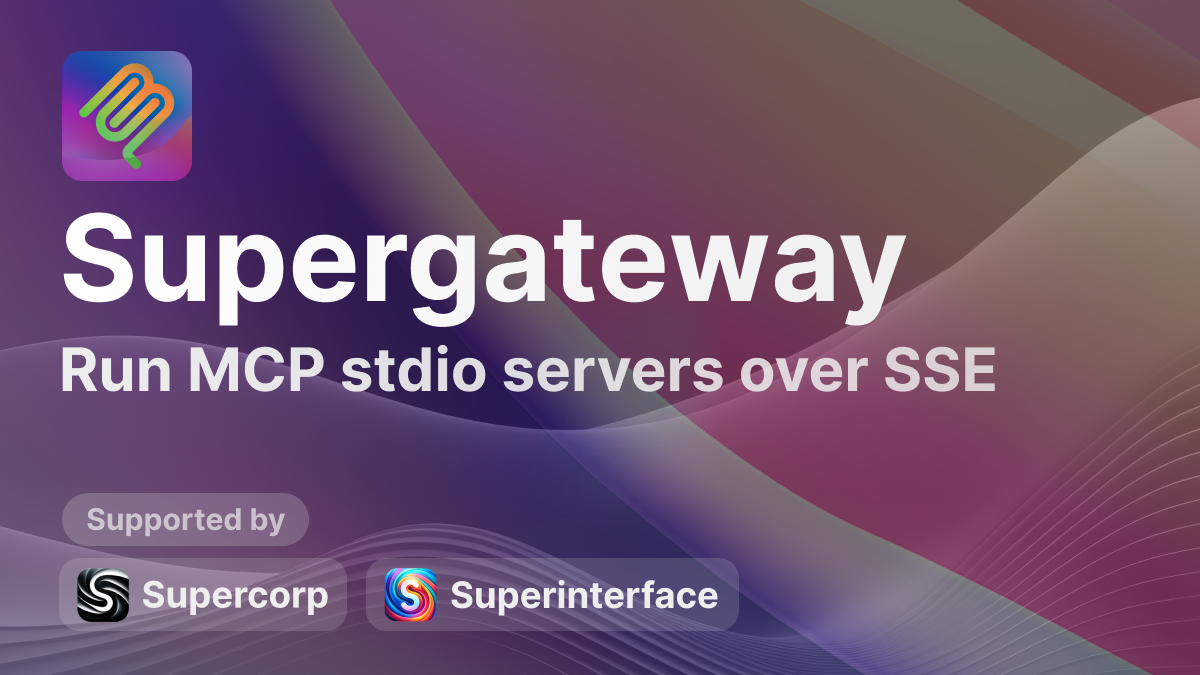
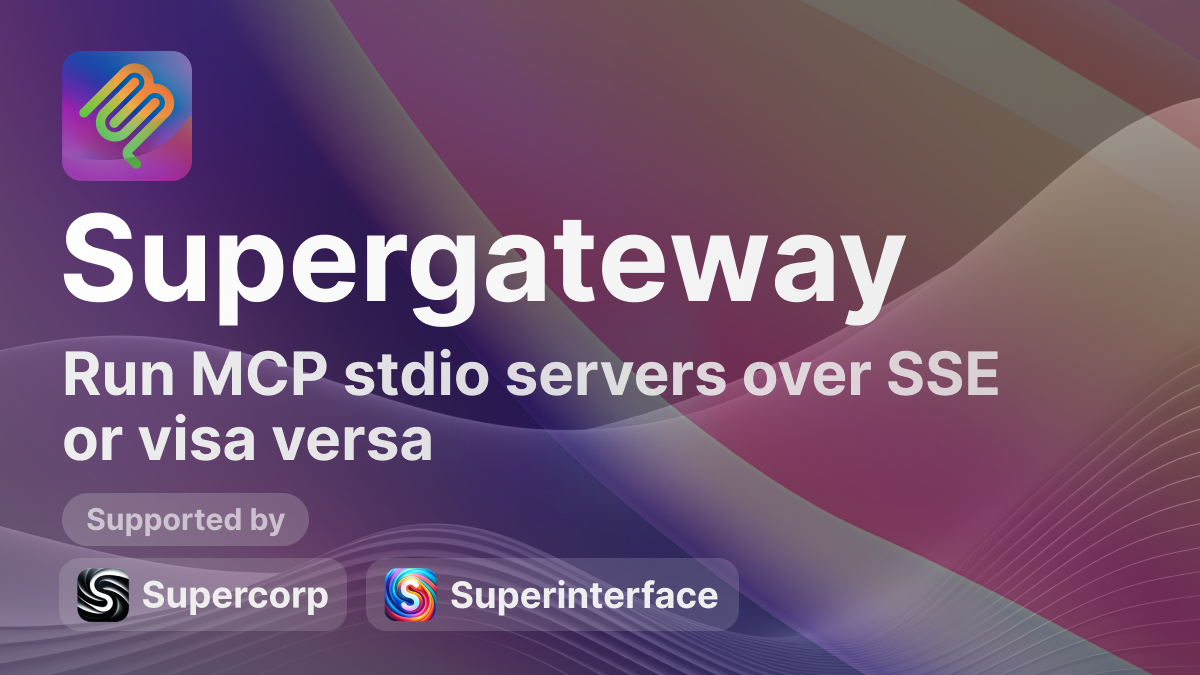
Update README and image

Changed region(s): [[0.0308, 0.4978, 0.8325, 0.5911], [0.0308, 0.6222, 0.37, 0.6844]]

diff --git a/src/index.ts b/src/index.ts
@@ -2,7 +2,7 @@
 /**
  * index.ts
  *
- * Run MCP stdio servers over SSE or SSE over stdio
+ * Run MCP stdio servers over SSE or visa versa
  *
  * Usage:
  *   # stdio -> SSE
@@ -10,7 +10,7 @@
  *                       --port 8000 --baseUrl http://localhost:8000 --ssePath /sse --messagePath /message
  *
  *   # SSE -> stdio
- *   npx -y supergateway --sse "https://mcp-server-123.supermachine.app"
+ *   npx -y supergateway --sse "https://mcp-server.superinterface.app"
  */
 
 import express from 'express'

diff --git a/README.md b/README.md
@@ -13,11 +13,25 @@ npx -y supergateway --stdio "uvx mcp-server-git"
 ```
 
 - **`--port 8000`**: Port to listen on (default: `8000`)
-- **`--stdio`**: Command that runs an MCP server over stdio
+- **`--stdio "command"`**: Command that runs an MCP server over stdio
+- **`--baseUrl "http://localhost:8000"`**: Base URL for SSE clients (stdio to SSE mode; optional)
+- **`--ssePath "/sse"`**: Path for SSE subscriptions (stdio to SSE mode; default: `/sse`)
+- **`--messagePath "/message"`**: Path for SSE messages (stdio to SSE mode; default: `/message`)
+- **`--sse "url"`**: SSE URL to connect to
 
-Once started:
+Once started on SSE:
 - **SSE endpoint**: `GET http://localhost:8000/sse`
 - **POST messages**: `POST http://localhost:8000/message`
+
+## SSE to Stdio Mode
+
+Supergateway also supports running in **SSE to Stdio** mode. Instead of providing a `--stdio` command, specify the `--sse` flag with an SSE URL. In this mode, Supergateway connects to the remote SSE server and exposes a local stdio interface for downstream clients.
+
+Example:
+
+```bash
+npx -y supergateway --sse "https://mcp-server-example.superinterface.app"
+```
 
 ## Example with MCP Inspector
 
@@ -48,6 +62,13 @@ ngrok then provides a public URL.
 ## Why MCP?
 
 [Model Context Protocol](https://spec.modelcontextprotocol.io/) standardizes how AI tools exchange data. If your MCP server only speaks stdio, Supergateway exposes an SSE-based interface so remote clients (and tools like MCP Inspector) can connect without extra server changes.
+
+## Advanced Configuration
+
+Supergateway is designed with modularity in mind:
+- It automatically derives the JSON‑RPC version from incoming requests, ensuring future compatibility.
+- Package information (name and version) is retransmitted where possible.
+- Stdio-to-SSE mode uses standard logs and SSE-to-Stdio mode logs via stderr (as otherwise it would prevent stdio functionality).
 
 ## Contributing
 
